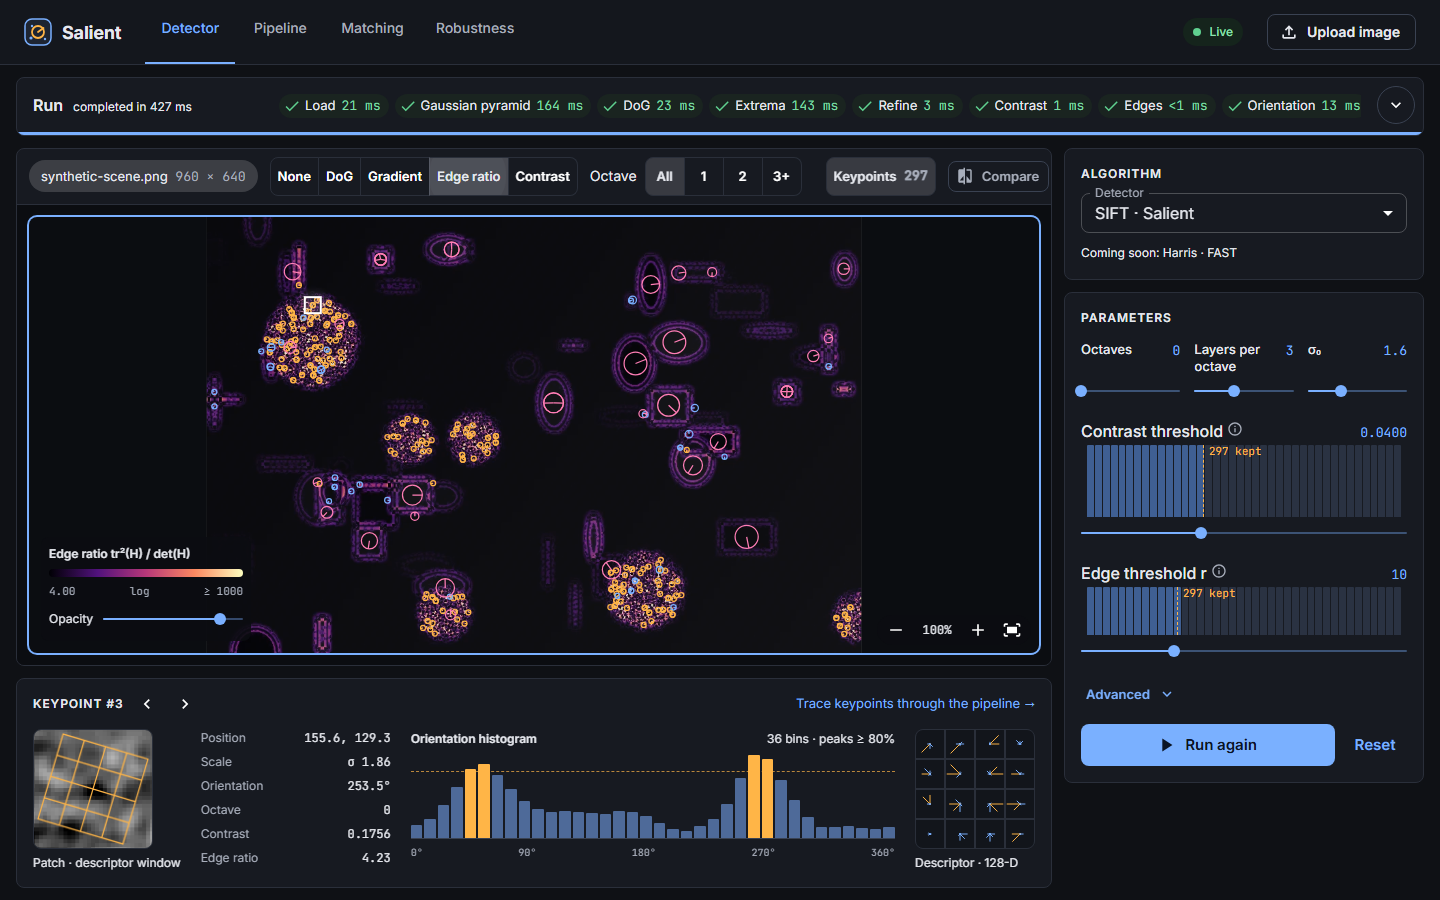
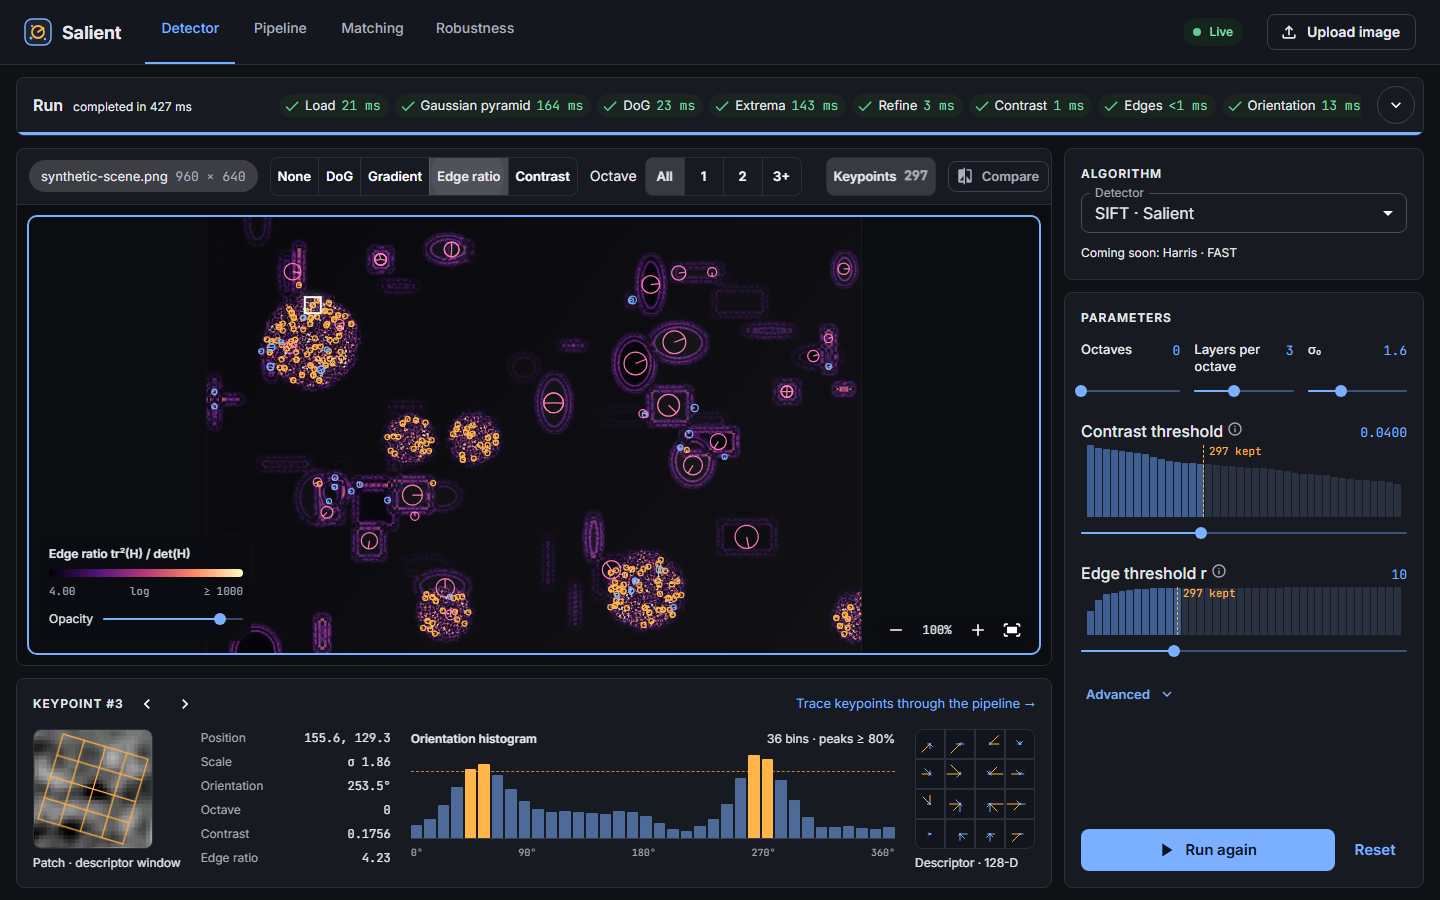
fix(web): stretch side cards, hide stage scrollbar, fix threshold bars
- Threshold histograms: minHeight 1 was read by MUI as 100%, so every bar had
  the same height; use 1px.
- Run bar: the stage row still scrolls sideways but shows no scrollbar.
- Detector Parameters and Pipeline "What happens" grow to the bottom of the
  column so the last block rests on the bottom edge, as in the design.
- e2e fit helper ignores touch ripples.

diff --git a/web/e2e/helpers.ts b/web/e2e/helpers.ts
@@ -25,7 +25,7 @@ export async function expectFitsViewport(page: Page) {
       if (['INPUT', 'LEGEND', 'FIELDSET'].includes(element.tagName)) continue
       // The chart library clips its own drawing surface.
       const exempt =
-        '[role="application"], [data-clips-by-design], canvas, [class*="MuiChartsWrapper"], [class*="MuiLineChart"]'
+        '[role="application"], [data-clips-by-design], canvas, [class*="MuiChartsWrapper"], [class*="MuiLineChart"], [class*="MuiTouchRipple"]'
       if (element.closest(exempt)) continue
       // MUI parks a scrollbar-measuring box far off screen.
       if (element.getBoundingClientRect().bottom < 0) continue
@@ -40,7 +40,7 @@ export async function expectFitsViewport(page: Page) {
       const style = getComputedStyle(element)
       const clipsY = ['auto', 'scroll', 'hidden'].includes(style.overflowY)
       if (clipsY && element.clientHeight > 0 && element.scrollHeight > element.clientHeight + 1) {
-        const name = element.getAttribute('aria-label') ?? element.tagName.toLowerCase()
+        const name = element.getAttribute('aria-label') ?? element.outerHTML.slice(0, 140)
         found.push(
           `${name} clips ${String(element.scrollHeight - element.clientHeight)}px vertically`,
         )

diff --git a/web/src/features/detector/DetectorPage.tsx b/web/src/features/detector/DetectorPage.tsx
@@ -451,7 +451,7 @@ export function DetectorPage() {
             </Typography>
           </Section>
 
-          <Section title="Parameters">
+          <Section title="Parameters" grow>
             <ParameterForm
               fields={fields}
               values={values}
@@ -485,6 +485,7 @@ export function DetectorPage() {
                   : undefined
               }
             />
+            <Box sx={{ flex: 1 }} />
             <Box sx={{ display: 'flex', gap: 1 }}>
               <Tooltip title="Thresholds apply instantly; other parameters need a new run.">
                 <Box component="span" sx={{ flex: 1, display: 'flex' }}>

diff --git a/web/src/features/detector/ThresholdHistogram.tsx b/web/src/features/detector/ThresholdHistogram.tsx
@@ -53,7 +53,7 @@ export function ThresholdHistogram({
             sx={{
               flex: '1 1 0',
               height: `${(count / peak) * 100}%`,
-              minHeight: count > 0 ? 1 : 0,
+              minHeight: count > 0 ? '1px' : 0,
               bgcolor: active ? '#3f5f93' : '#2a3242',
               borderRadius: '1px 1px 0 0',
             }}

diff --git a/web/src/shared/components/Section.tsx b/web/src/shared/components/Section.tsx
@@ -27,7 +27,7 @@ export function Section({
         display: 'flex',
         flexDirection: 'column',
         gap,
-        ...(grow ? { flex: '1 1 0', minHeight: 0 } : {}),
+        ...(grow ? { flex: '1 0 auto' } : {}),
       }}
     >
       <Box sx={{ display: 'flex', alignItems: 'center', justifyContent: 'space-between', gap: 1 }}>

diff --git a/web/src/shared/components/RunProgressBar.tsx b/web/src/shared/components/RunProgressBar.tsx
@@ -125,7 +125,8 @@ export function RunProgressBar({
             minWidth: 0,
             overflowX: 'auto',
             overflowY: 'hidden',
-            scrollbarWidth: 'thin',
+            scrollbarWidth: 'none',
+            '&::-webkit-scrollbar': { display: 'none' },
           }}
         >
           {run.stages.map((stage) => (

diff --git a/web/src/features/pipeline/PipelinePage.tsx b/web/src/features/pipeline/PipelinePage.tsx
@@ -362,7 +362,7 @@ export function PipelinePage() {
 
 function Explanation({ step }: { step: PipelineStep }) {
   return (
-    <Section title="What happens">
+    <Section title="What happens" grow>
       <Typography sx={{ lineHeight: 1.6, color: '#d4d8e1' }}>{step.text}</Typography>
       <Box
         sx={{
